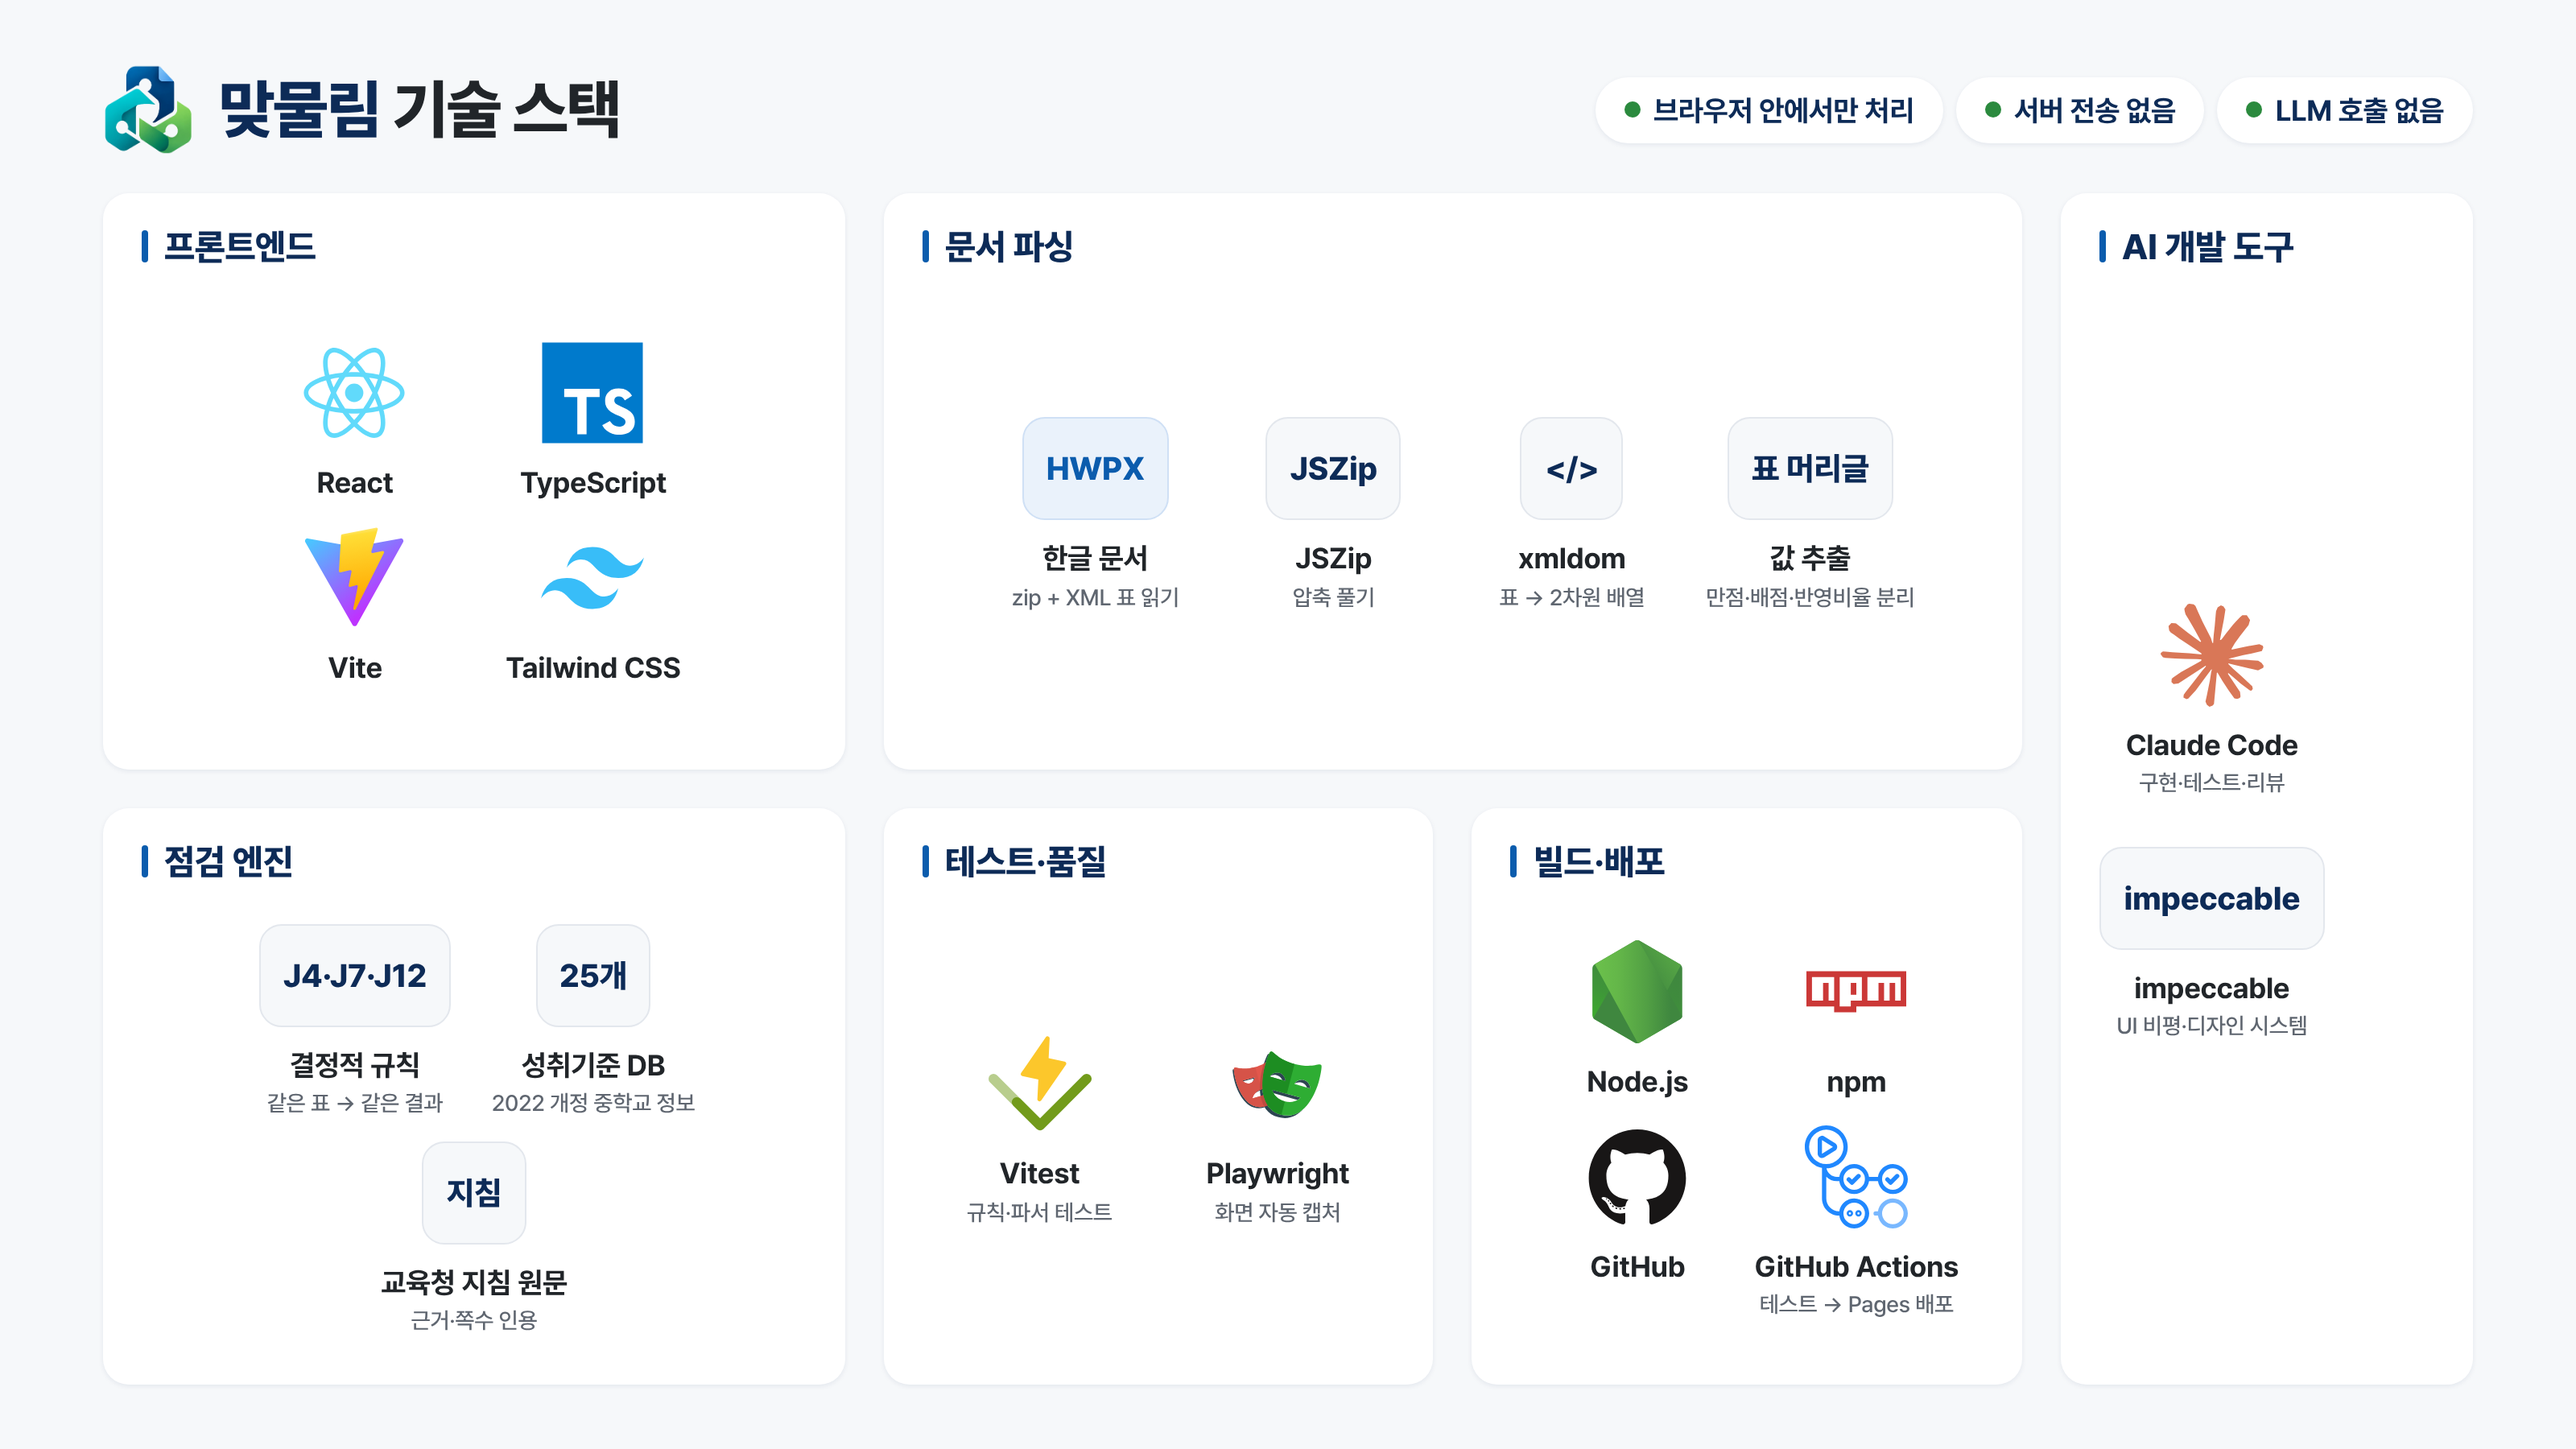
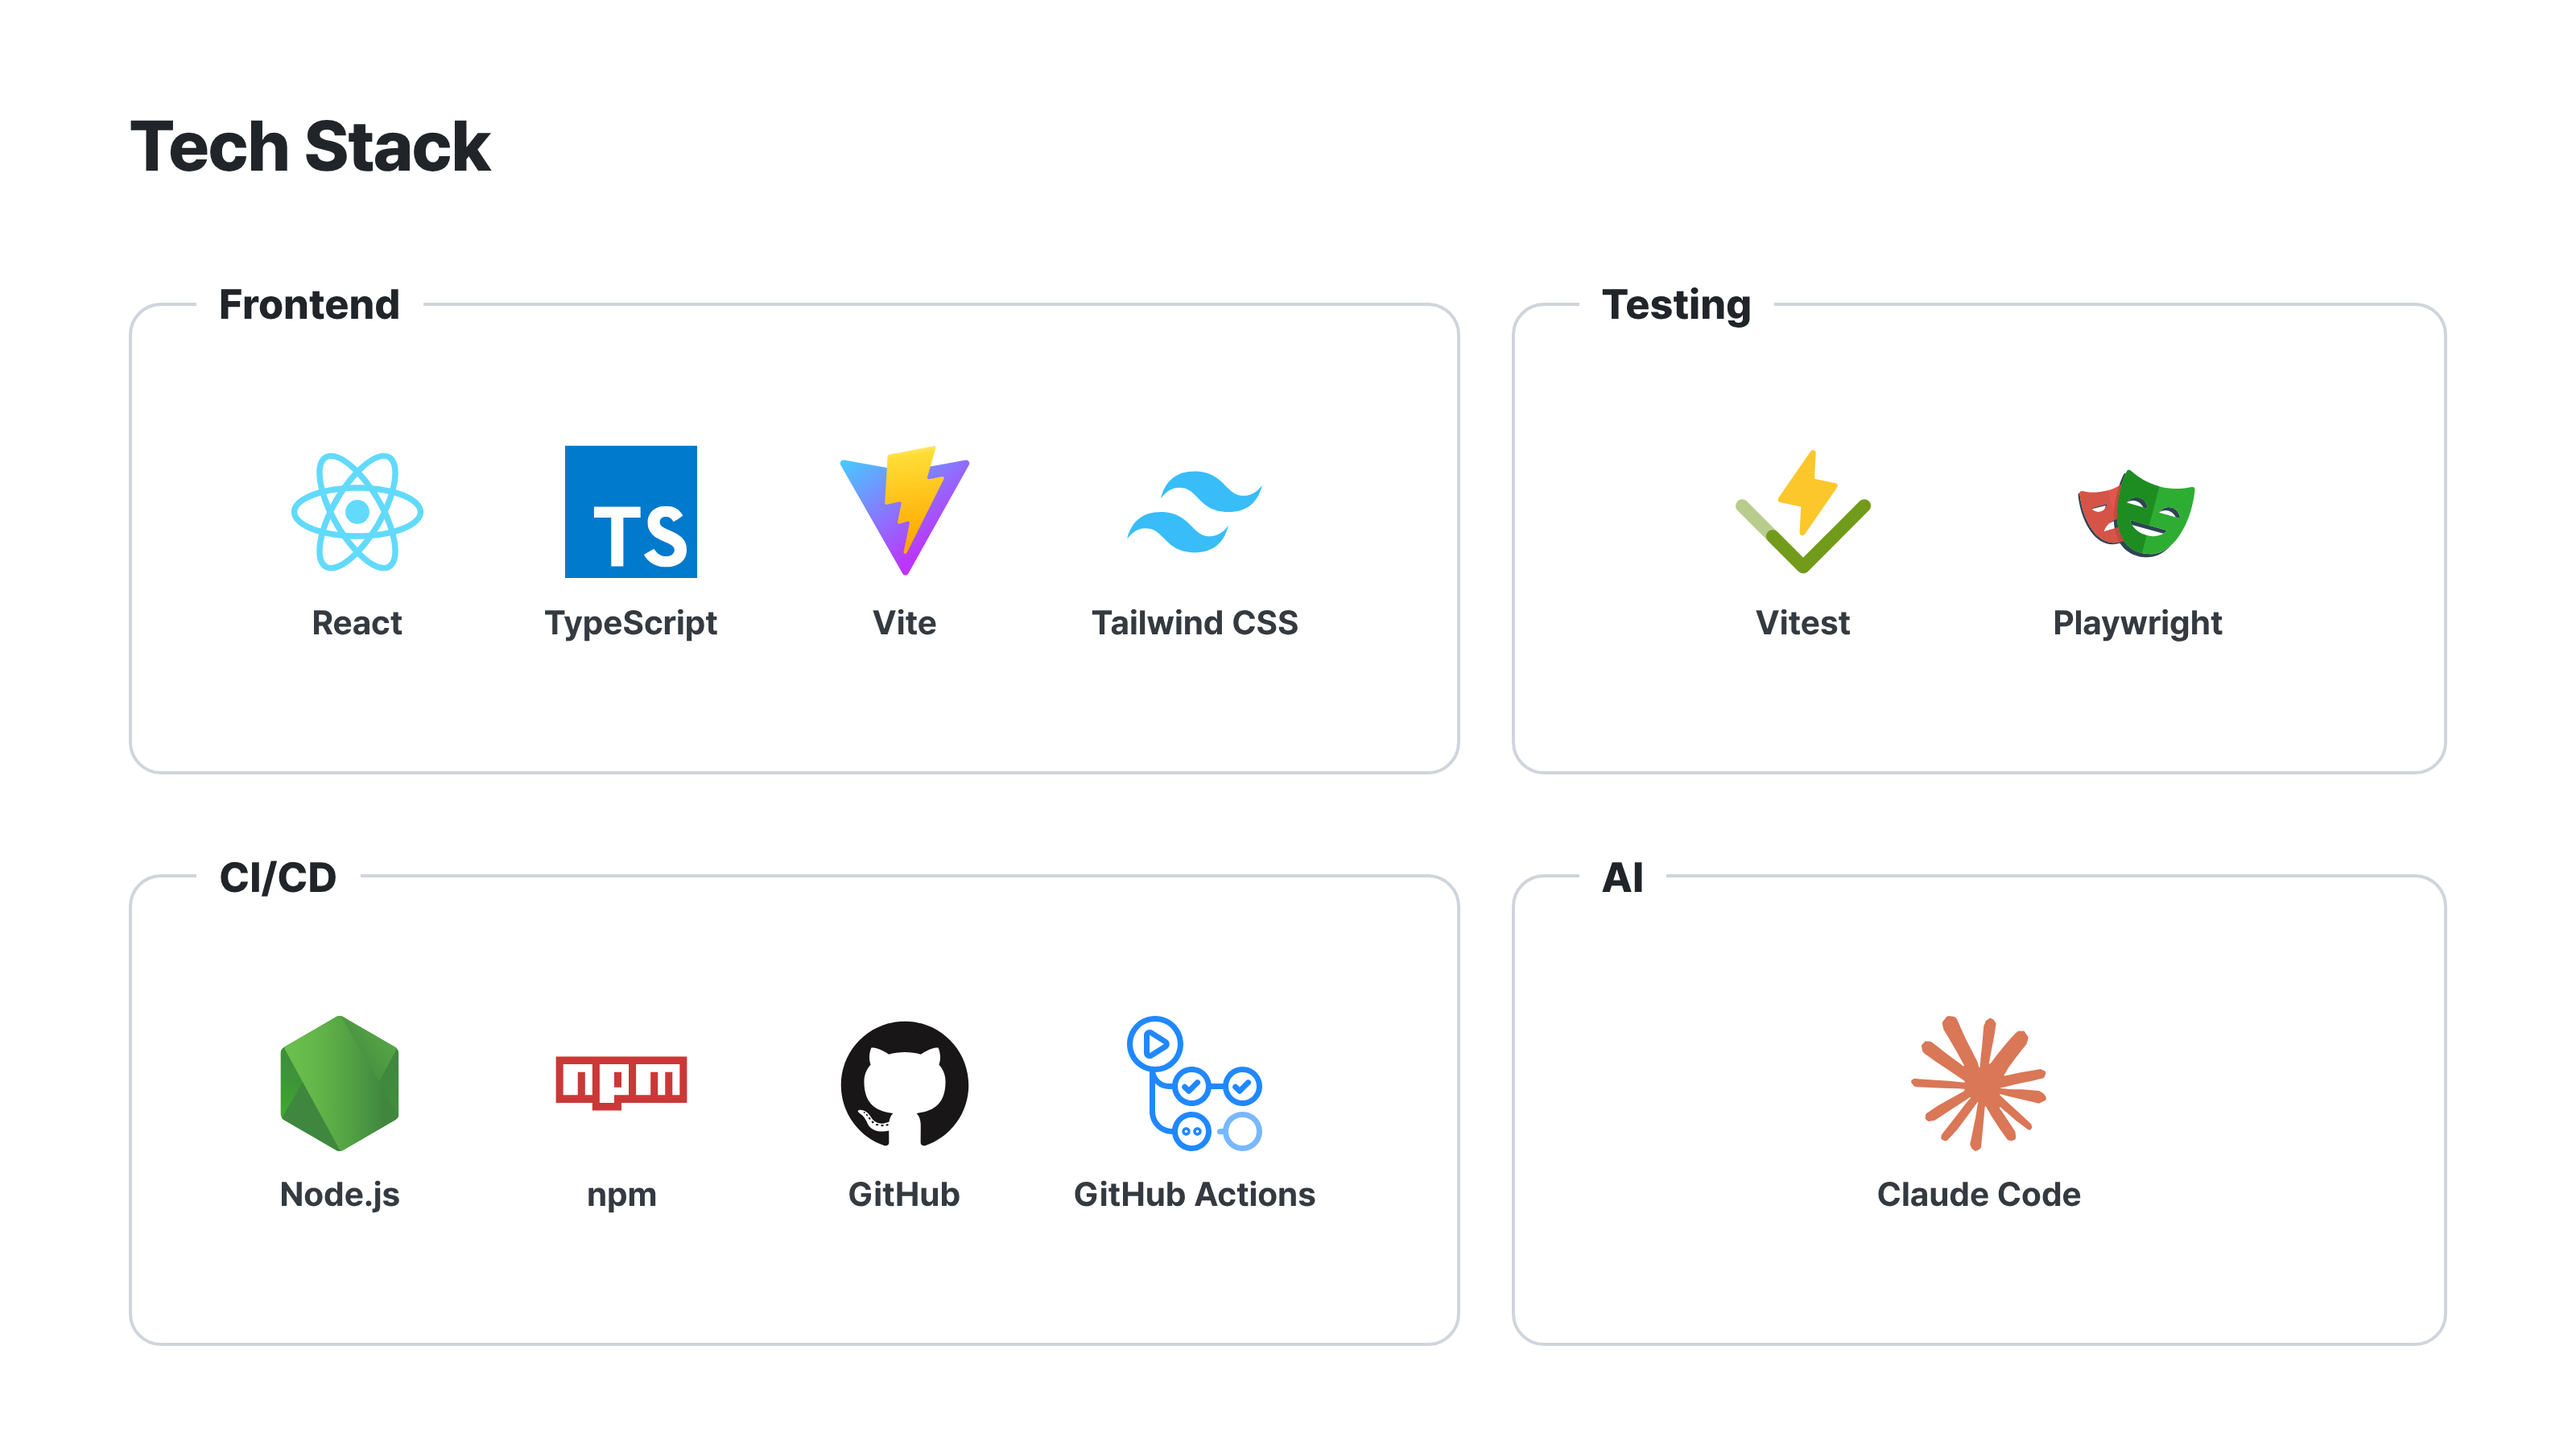
기술 스택 이미지 단순화: 줄선 박스, 공식 로고만, 한글 로고 칸 자동 추가
Claude-Session: https://claude.ai/code/session_01RBotGwbBdPmRiPQXtoDUWZ

diff --git a/docs/tech-stack/index.html b/docs/tech-stack/index.html
@@ -2,93 +2,63 @@
 <html lang="ko">
 <head>
 <meta charset="utf-8" />
-<title>맞물림 기술 스택</title>
+<title>Tech Stack</title>
 <style>
   @font-face { font-family: 'Pretendard'; src: url('../../node_modules/pretendard/dist/web/variable/woff2/PretendardVariable.woff2') format('woff2'); font-weight: 100 900; }
-  :root { --navy:#0d2b57; --blue:#0b5cad; --green:#2b8a3e; --ink:#212529; --ink2:#495057; --ink3:#5f6670; --line:#e3e7ed; --canvas:#f6f8fa; }
   * { box-sizing: border-box; margin: 0; }
-  body { width: 1600px; height: 900px; background: var(--canvas); font-family: 'Pretendard', sans-serif; color: var(--ink); letter-spacing: -0.01em; padding: 40px 64px; word-break: keep-all; display: flex; flex-direction: column; }
-  header { display: flex; align-items: center; justify-content: space-between; margin-bottom: 24px; }
-  .brand { display: flex; align-items: center; gap: 16px; }
-  .brand img { width: 56px; height: 56px; }
-  .brand h1 { font-size: 40px; font-weight: 800; letter-spacing: -0.03em; }
-  .brand h1 span { color: var(--navy); }
-  .pills { display: flex; gap: 8px; }
-  .pill { display: flex; align-items: center; gap: 8px; padding: 10px 18px; border-radius: 999px; background: #fff; box-shadow: 0 1px 3px rgba(13,43,87,.08); font-size: 18px; font-weight: 700; color: var(--navy); }
-  .pill i { width: 10px; height: 10px; border-radius: 50%; background: var(--green); }
-  .grid { display: grid; grid-template-columns: 1.35fr 1fr 1fr 0.75fr; grid-template-rows: 1fr 1fr; gap: 24px; flex: 1; min-height: 0; }
-  section { position: relative; background: #fff; border-radius: 16px; box-shadow: 0 1px 3px rgba(13,43,87,.08); padding: 64px 24px 24px; display: flex; flex-wrap: wrap; align-content: center; justify-content: center; gap: 16px 8px; }
-  section h2 { position: absolute; top: 20px; left: 24px; font-size: 22px; font-weight: 800; color: var(--navy); display: flex; align-items: center; gap: 10px; }
-  section h2::before { content: ''; width: 4px; height: 20px; border-radius: 2px; background: var(--blue); }
-  .t { width: 140px; display: flex; flex-direction: column; align-items: center; gap: 12px; }
-  .t img { height: 64px; width: 64px; object-fit: contain; }
-  .t.wide img { width: 120px; }
-  .t b { font-size: 18px; font-weight: 700; color: var(--ink); text-align: center; line-height: 1.3; }
-  .t small { font-size: 14px; font-weight: 500; color: var(--ink3); text-align: center; margin-top: -8px; }
-  .chip { height: 64px; min-width: 64px; padding: 0 14px; border-radius: 14px; background: var(--canvas); border: 1px solid var(--line); display: flex; align-items: center; justify-content: center; font-size: 20px; font-weight: 800; color: var(--navy); }
-  .chip.hwp { background: #eaf2fb; color: var(--blue); border-color: #cfe0f5; }
-  .front { grid-column: 1; grid-row: 1; }
-  .parse { grid-column: 2 / 4; grid-row: 1; }
-  .ai { grid-column: 4; grid-row: 1 / 3; flex-direction: column; flex-wrap: nowrap; gap: 32px; }
-  .engine { grid-column: 1; grid-row: 2; }
-  .test { grid-column: 2; grid-row: 2; }
-  .deploy { grid-column: 3; grid-row: 2; }
-  .deploy .t { width: 128px; }
+  body { width: 1600px; height: 900px; background: #fff; font-family: 'Pretendard', sans-serif; color: #212529; padding: 64px 80px; display: flex; flex-direction: column; }
+  h1 { font-size: 44px; font-weight: 800; letter-spacing: -0.02em; margin-bottom: 56px; }
+  .grid { flex: 1; display: grid; grid-template-columns: repeat(12, 1fr); grid-auto-rows: 1fr; gap: 48px 32px; }
+  fieldset { border: 2px solid #d0d5dc; border-radius: 20px; padding: 24px 24px 32px; display: flex; align-items: center; justify-content: space-evenly; min-width: 0; }
+  legend { padding: 0 14px; margin-left: 16px; font-size: 26px; font-weight: 800; color: #212529; }
+  .t { display: flex; flex-direction: column; align-items: center; gap: 14px; }
+  .t img { height: 84px; width: 84px; object-fit: contain; }
+  .t img.word { width: 140px; }
+  .t b { font-size: 21px; font-weight: 700; color: #343a40; }
+  .s4 { grid-column: span 4; } .s5 { grid-column: span 5; } .s3 { grid-column: span 3; } .s6 { grid-column: span 6; } .s7 { grid-column: span 7; }
 </style>
 </head>
 <body>
-  <header>
-    <div class="brand"><img src="logos/matmullim.png" alt="" /><h1><span>맞물림</span> 기술 스택</h1></div>
-    <div class="pills">
-      <div class="pill"><i></i>브라우저 안에서만 처리</div>
-      <div class="pill"><i></i>서버 전송 없음</div>
-      <div class="pill"><i></i>LLM 호출 없음</div>
-    </div>
-  </header>
-
-  <div class="grid">
-    <section class="front">
-      <h2>프론트엔드</h2>
+  <h1>Tech Stack</h1>
+  <div class="grid" id="grid">
+    <fieldset class="s7"><legend>Frontend</legend>
       <div class="t"><img src="logos/react-original.svg" alt="" /><b>React</b></div>
       <div class="t"><img src="logos/typescript-original.svg" alt="" /><b>TypeScript</b></div>
       <div class="t"><img src="logos/vitejs-original.svg" alt="" /><b>Vite</b></div>
       <div class="t"><img src="logos/tailwindcss-original.svg" alt="" /><b>Tailwind CSS</b></div>
-    </section>
-
-    <section class="parse">
-      <h2>문서 파싱</h2>
-      <div class="t"><div class="chip hwp">HWPX</div><b>한글 문서</b><small>zip + XML 표 읽기</small></div>
-      <div class="t"><div class="chip">JSZip</div><b>JSZip</b><small>압축 풀기</small></div>
-      <div class="t"><div class="chip">&lt;/&gt;</div><b>xmldom</b><small>표 → 2차원 배열</small></div>
-      <div class="t"><div class="chip">표 머리글</div><b>값 추출</b><small>만점·배점·반영비율 분리</small></div>
-    </section>
-
-    <section class="ai">
-      <h2>AI 개발 도구</h2>
-      <div class="t"><img src="logos/claude.svg" alt="" /><b>Claude Code</b><small>구현·테스트·리뷰</small></div>
-      <div class="t"><div class="chip">impeccable</div><b>impeccable</b><small>UI 비평·디자인 시스템</small></div>
-    </section>
-
-    <section class="engine">
-      <h2>점검 엔진</h2>
-      <div class="t"><div class="chip">J4·J7·J12</div><b>결정적 규칙</b><small>같은 표 → 같은 결과</small></div>
-      <div class="t"><div class="chip">25개</div><b>성취기준 DB</b><small>2022 개정 중학교 정보</small></div>
-      <div class="t"><div class="chip">지침</div><b>교육청 지침 원문</b><small>근거·쪽수 인용</small></div>
-    </section>
-
-    <section class="test">
-      <h2>테스트·품질</h2>
-      <div class="t"><img src="logos/vitest-original.svg" alt="" /><b>Vitest</b><small>규칙·파서 테스트</small></div>
-      <div class="t"><img src="logos/playwright-original.svg" alt="" /><b>Playwright</b><small>화면 자동 캡처</small></div>
-    </section>
-
-    <section class="deploy">
-      <h2>빌드·배포</h2>
+    </fieldset>
+    <fieldset class="s5" id="doc"><legend>Testing</legend>
+      <div class="t"><img src="logos/vitest-original.svg" alt="" /><b>Vitest</b></div>
+      <div class="t"><img src="logos/playwright-original.svg" alt="" /><b>Playwright</b></div>
+    </fieldset>
+    <fieldset class="s7"><legend>CI/CD</legend>
       <div class="t"><img src="logos/nodejs-original.svg" alt="" /><b>Node.js</b></div>
-      <div class="t wide"><img src="logos/npm-original-wordmark.svg" alt="" /><b>npm</b></div>
+      <div class="t"><img class="word" src="logos/npm-original-wordmark.svg" alt="" /><b>npm</b></div>
       <div class="t"><img src="logos/github-original.svg" alt="" /><b>GitHub</b></div>
-      <div class="t"><img src="logos/githubactions-original.svg" alt="" /><b>GitHub Actions</b><small>테스트 → Pages 배포</small></div>
-    </section>
+      <div class="t"><img src="logos/githubactions-original.svg" alt="" /><b>GitHub Actions</b></div>
+    </fieldset>
+    <fieldset class="s5"><legend>AI</legend>
+      <div class="t"><img src="logos/claude.svg" alt="" /><b>Claude Code</b></div>
+    </fieldset>
   </div>
+  <script>
+    // logos/hangul.(svg|png)이 있으면 Document 칸(한글 HWPX)을 넣는다
+    (async () => {
+      for (const ext of ['svg', 'png']) {
+        const ok = await new Promise((r) => { const i = new Image(); i.onload = () => r(true); i.onerror = () => r(false); i.src = `logos/hangul.${ext}`; });
+        if (!ok) continue;
+        const grid = document.getElementById('grid');
+        grid.children[1].className = 's3';
+        grid.children[0].className = 's6';
+        const f = document.createElement('fieldset');
+        f.className = 's3';
+        f.innerHTML = `<legend>Document</legend><div class="t"><img src="logos/hangul.${ext}" alt="" /><b>한글 (HWPX)</b></div>`;
+        grid.insertBefore(f, grid.children[1]);
+        grid.children[3].className = 's7'; grid.children[4].className = 's5';
+        break;
+      }
+      document.body.dataset.ready = '1';
+    })();
+  </script>
 </body>
 </html>

diff --git a/scripts/tech-stack.ts b/scripts/tech-stack.ts
@@ -6,6 +6,7 @@ import { chromium } from 'playwright';
 const browser = await chromium.launch();
 const page = await browser.newPage({ viewport: { width: 1600, height: 900 }, deviceScaleFactor: 2 });
 await page.goto(pathToFileURL(resolve('docs/tech-stack/index.html')).href);
+await page.waitForSelector('body[data-ready]');
 await page.evaluate(() => document.fonts.ready);
 await page.waitForTimeout(300);
 await page.screenshot({ path: 'docs/tech-stack.png' });

diff --git a/docs/tech-stack/LOGOS.md b/docs/tech-stack/LOGOS.md
@@ -2,8 +2,8 @@
 
 - 컬러 로고(React, TypeScript, Vite, Tailwind CSS, Vitest, Playwright, Node.js, npm, GitHub, GitHub Actions): [devicon](https://github.com/devicons/devicon) 2.17.0 (MIT) — 각 프로젝트 공식 로고를 SVG로 옮긴 것
 - Claude: [Simple Icons](https://simpleicons.org) 16.35.0 (CC0), 공식 색 #D97757
-- 맞물림 로고: 팀 로고 (`public/brand/logo-mark.png`)
-- HWPX·JSZip·xmldom·impeccable 등은 공식 로고가 없거나 확인하지 못해 글자 칸으로 표시
+- 공식 로고가 없는 도구(JSZip, xmldom 등)는 넣지 않았습니다.
+- 한글(HWPX): `docs/tech-stack/logos/hangul.svg` 또는 `hangul.png`를 넣고 다시 만들면 "Document" 칸이 자동으로 생깁니다. (작업 환경에서 한컴 사이트·위키미디어 접속이 막혀 파일을 받지 못했습니다.)
 
 각 로고는 해당 소유자의 상표입니다. 기술 사용을 알리는 용도로만 쓰고 모양·색을 바꾸지 않았습니다.
 다시 만들기: `npx tsx scripts/tech-stack.ts` → `docs/tech-stack.png` (1600×900, 배율 2)
